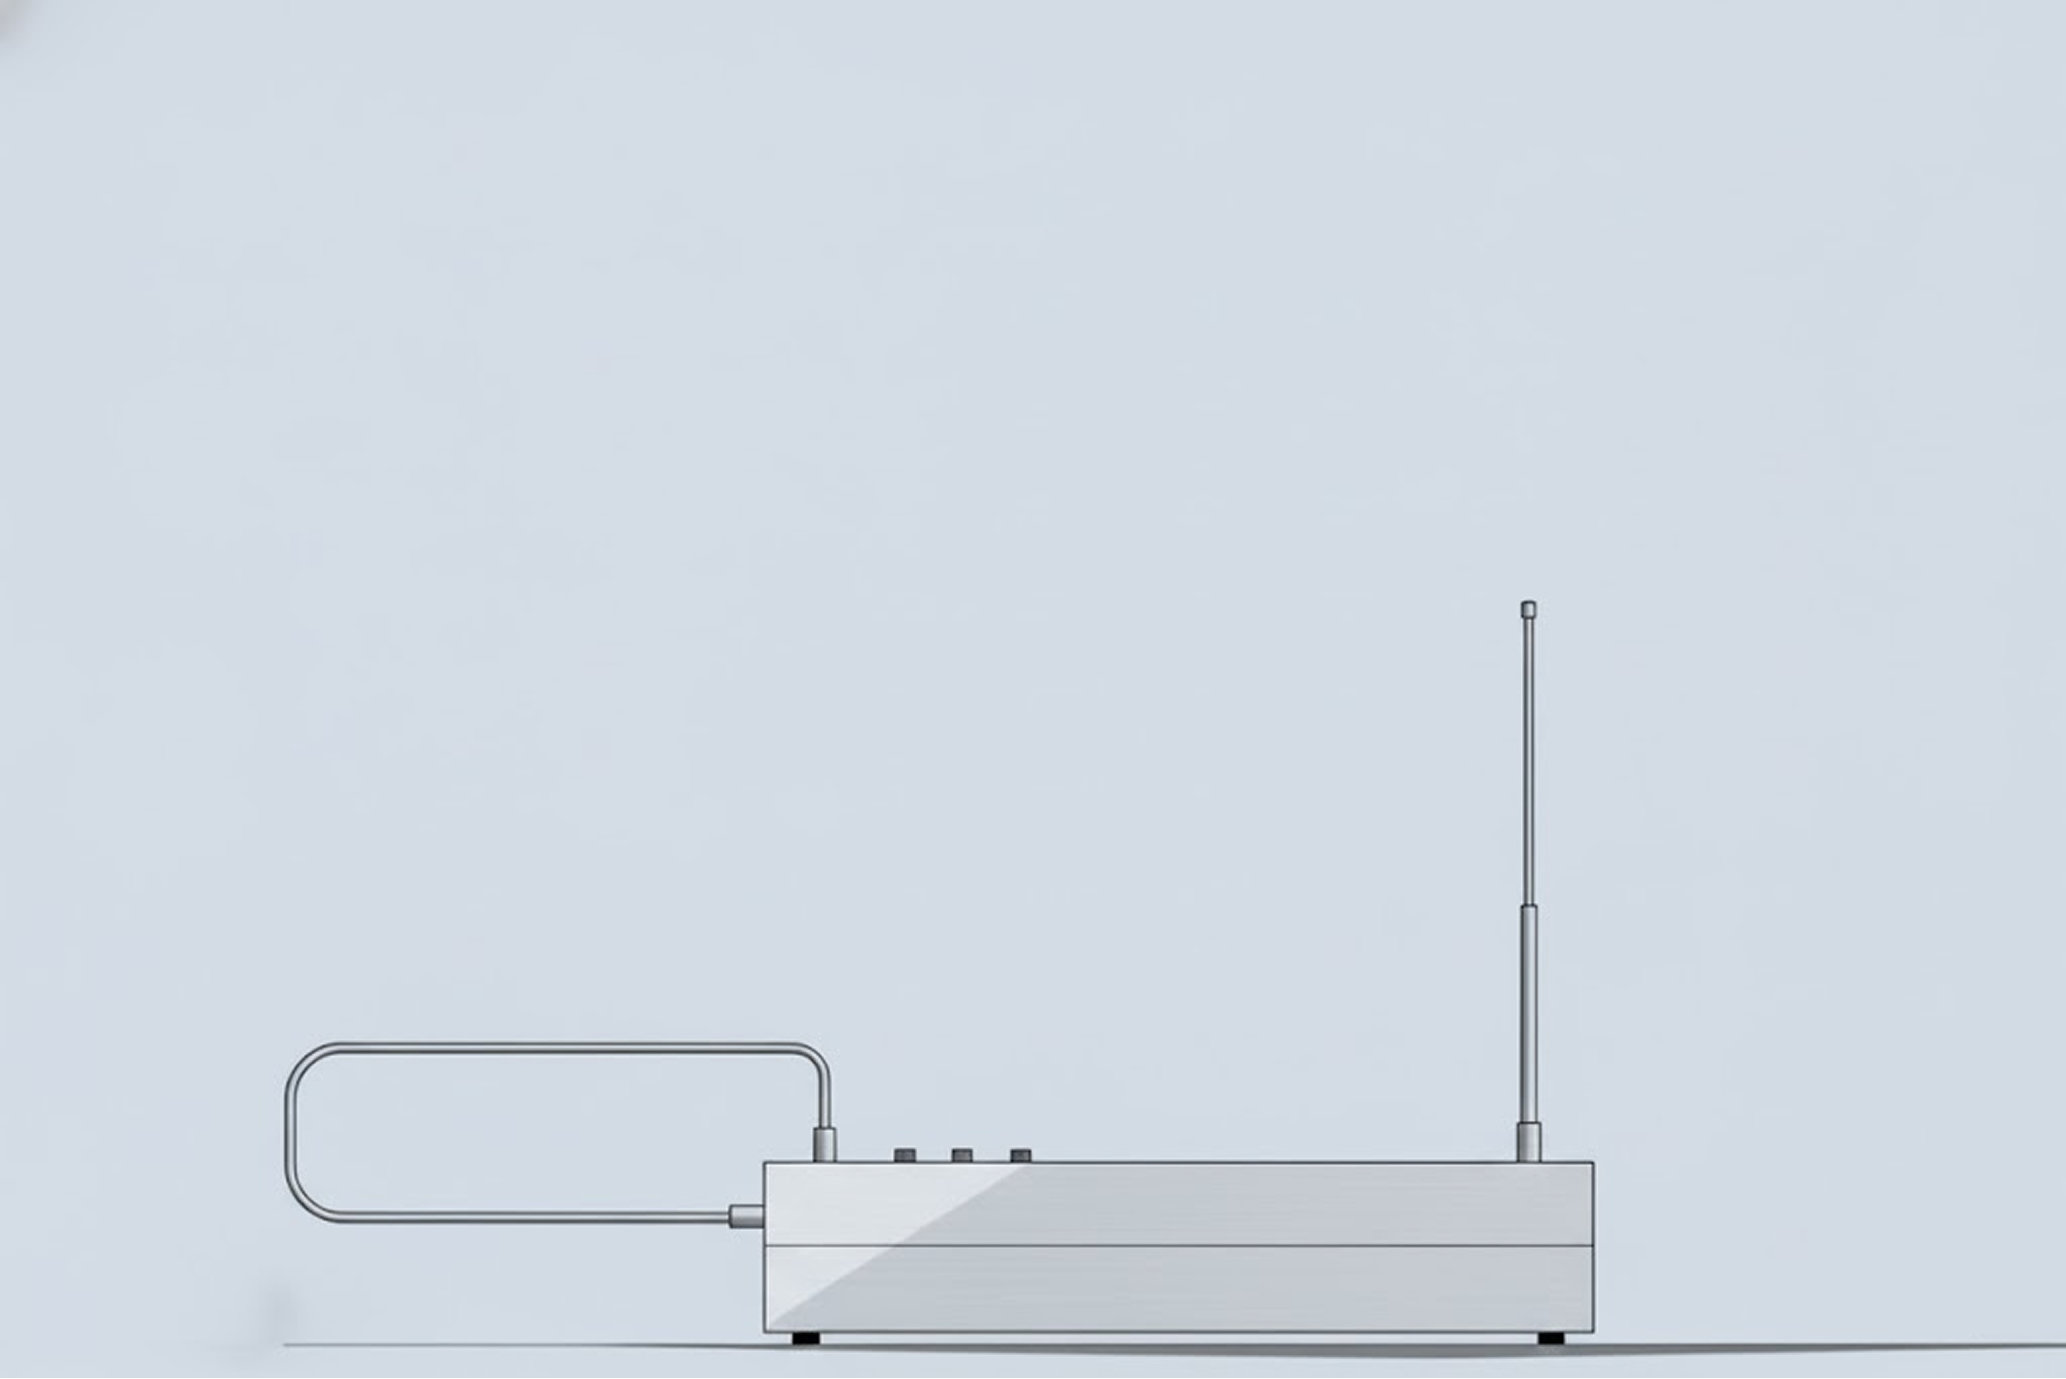
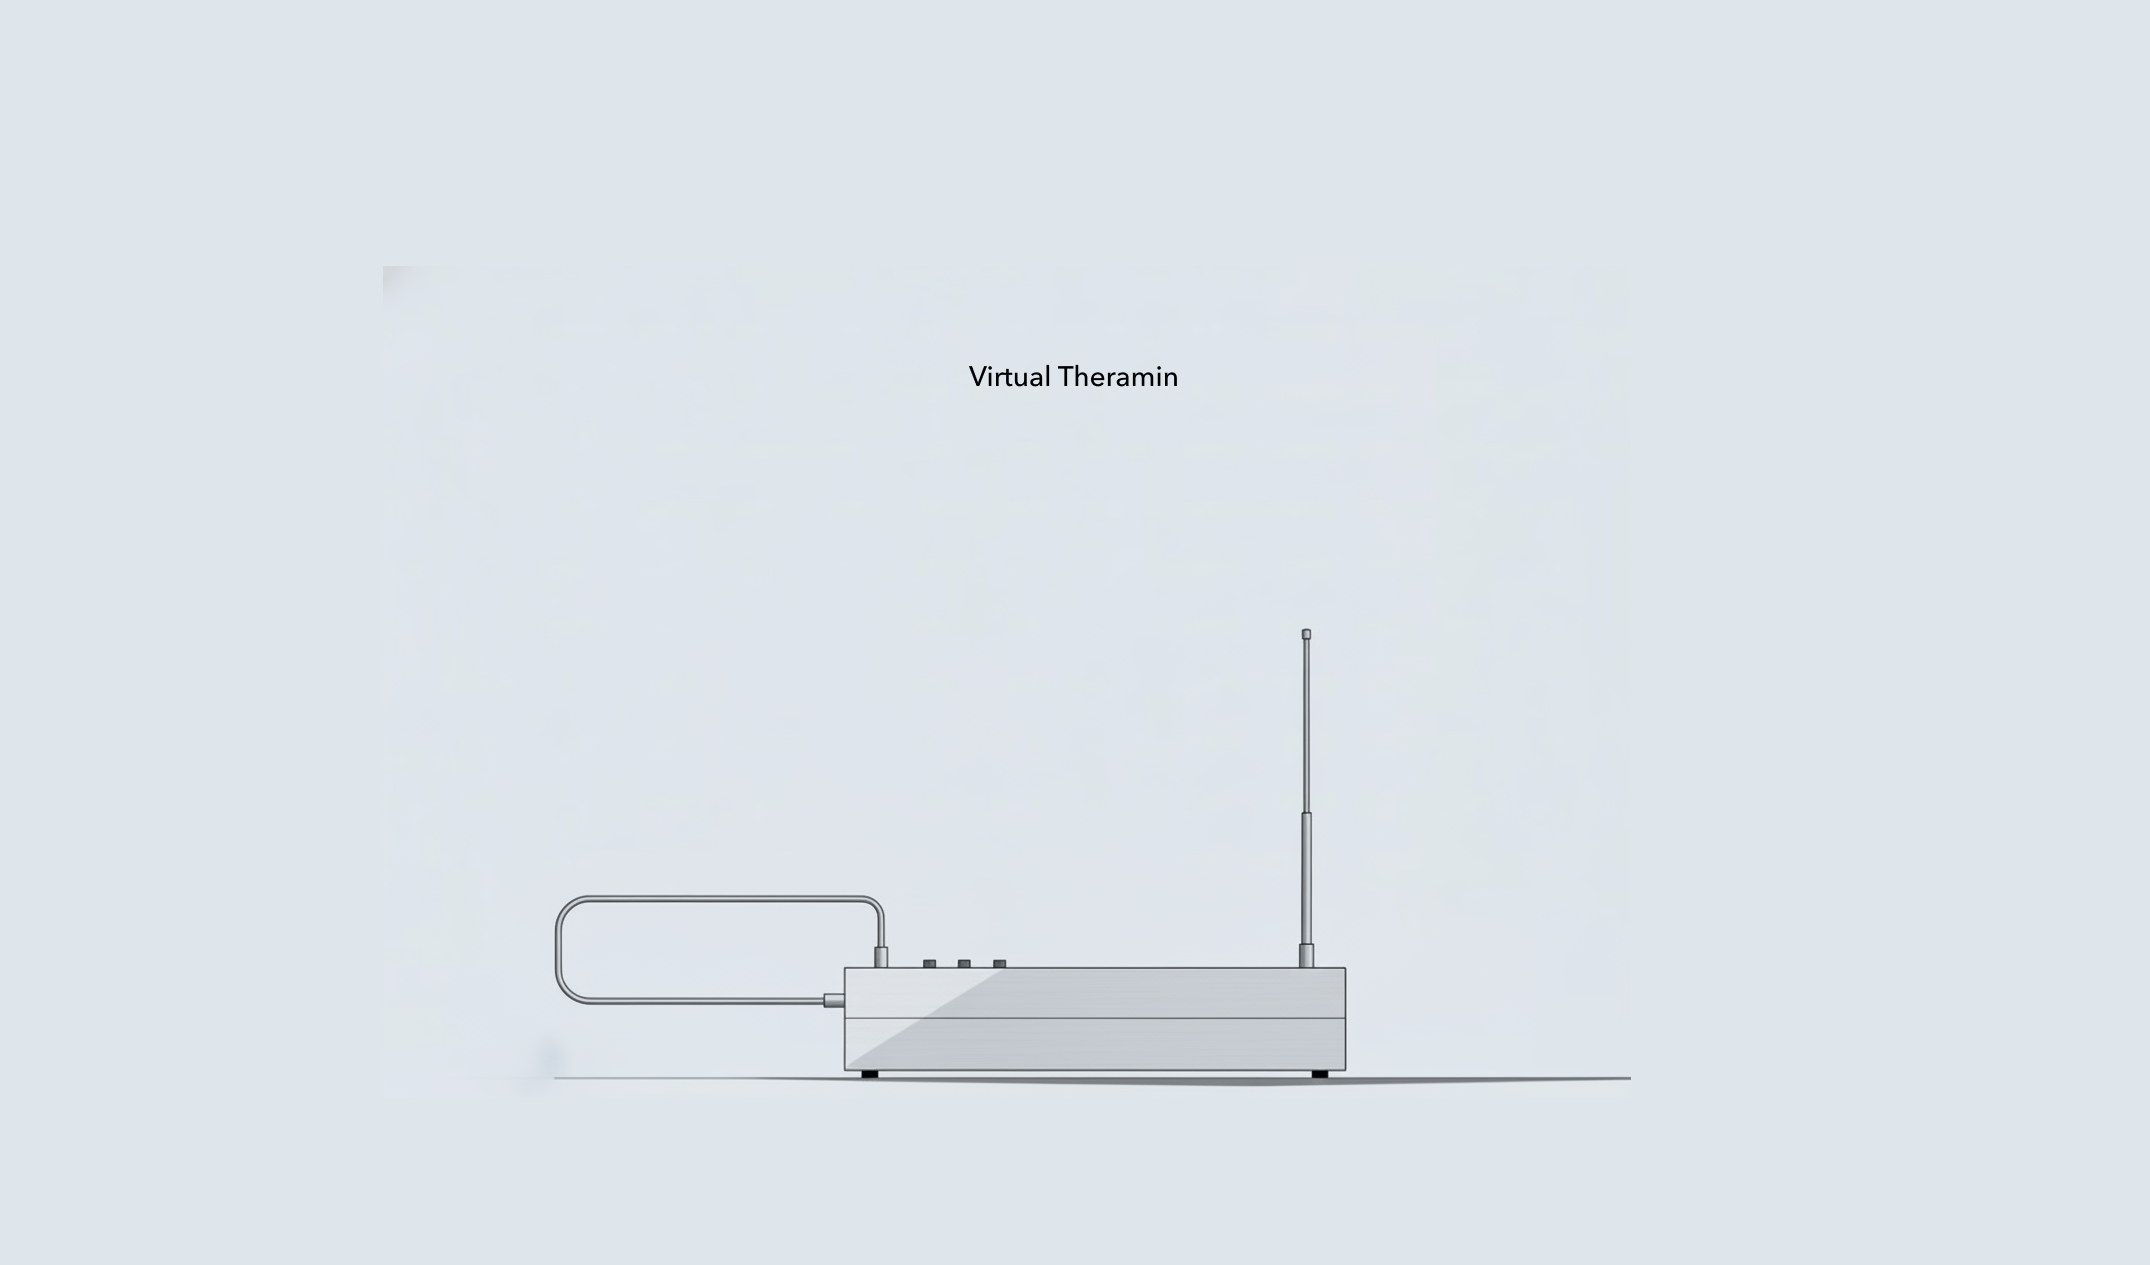
Theramin updates

diff --git a/theremin/index.html b/theremin/index.html
@@ -4,9 +4,6 @@
   <meta charset="UTF-8">
   <meta name="viewport" content="width=device-width, initial-scale=1.0">
   <title>Virtual Theremin</title>
-  <link rel="preconnect" href="https://fonts.googleapis.com">
-  <link rel="preconnect" href="https://fonts.gstatic.com" crossorigin>
-  <link href="https://fonts.googleapis.com/css2?family=Playfair+Display:ital,wght@0,400..900;1,400..900&display=swap" rel="stylesheet">
   <style>
     body {
       margin: 0;
@@ -18,135 +15,87 @@
       background-position: center;
       background-repeat: no-repeat;
       cursor: none;
-      font-family: 'Playfair Display', 'Times New Roman', 'Georgia', serif;
-      font-stretch: condensed;
+      font-family: 'Avenir', 'Helvetica Neue', 'Arial', sans-serif;
     }
-    
-    .overlay {
-      position: absolute;
-      top: 0;
-      left: 0;
-      width: 100%;
-      height: 100%;
-      background: rgba(0, 0, 0, 0.3);
-      pointer-events: none;
-    }
-    
-    .title {
-      position: absolute;
-      left: 10%;
-      top: 130px;
-      color: #ffffff;
-      font-size: 3em;
-      font-weight: normal;
-      letter-spacing: 2px;
-      font-family: 'Playfair Display', 'Times New Roman', 'Georgia', serif;
-      font-stretch: condensed;
-    }
-    
-
     
     .controls {
       position: absolute;
       top: 20px;
       right: 20px;
-      background: linear-gradient(145deg, #085E79, #064C61);
-      border: 2px solid #0A7997;
+      background: #f5f5f5;
+      border: 2px solid #555555;
       padding: 25px;
-      border-radius: 20px;
-      color: #ffffff;
+      border-radius: 6px;
+      color: #333333;
       pointer-events: auto;
-      box-shadow: 
-        inset 1px 1px 8px rgba(255, 255, 255, 0.2),
-        inset -1px -1px 8px rgba(0, 0, 0, 0.2),
-        3px 3px 15px rgba(0, 0, 0, 0.3);
-      font-family: 'Playfair Display', 'Times New Roman', 'Georgia', serif;
-      font-stretch: condensed;
-      font-weight: normal;
-      
+      font-family: 'Avenir', 'Helvetica Neue', 'Arial', sans-serif;
     }    .control-group {
       margin-bottom: 18px;
-      background: rgba(8, 94, 121, 0.3);
+      background: #ffffff;
       padding: 12px;
-      border-radius: 12px;
-      border: 1px solid #0A7997;
+      border-radius: 4px;
+      border: 1px solid #555555;
     }
     
     label {
       display: block;
       margin-bottom: 8px;
       font-size: 0.95em;
-      color: #ffffff;
-      font-weight: normal;
-      letter-spacing: 1px;
-      font-family: 'Playfair Display', 'Times New Roman', 'Georgia', serif;
-      font-stretch: condensed;
+      color: #333333;
+      font-family: 'Avenir', 'Helvetica Neue', 'Arial', sans-serif;
     }
     
     input[type="range"] {
       width: 100%;
       height: 8px;
-      background: linear-gradient(to right, #064C61, #0A7997);
-      border-radius: 5px;
+      background: #cccccc;
+      border-radius: 0;
       outline: none;
       -webkit-appearance: none;
       appearance: none;
+      border: 1px solid #555555;
     }
     
     input[type="range"]::-webkit-slider-thumb {
       -webkit-appearance: none;
       width: 20px;
       height: 20px;
-      background: radial-gradient(circle, #ecf0f1, #bdc3c7);
-      border: 2px solid #34495e;
-      border-radius: 50%;
+      background: #ffffff;
+      border: 2px solid #555555;
+      border-radius: 0;
       cursor: pointer;
-      box-shadow: 1px 1px 4px rgba(0, 0, 0, 0.3);
     }
     
     select {
       width: 100%;
       padding: 8px;
-      background: linear-gradient(145deg, #085E79, #064C61);
-      color: #ecf0f1;
-      border: 1px solid #0A7997;
-      border-radius: 8px;
-      font-weight: normal;
+      background: #ffffff;
+      color: #333333;
+      border: 1px solid #555555;
+      border-radius: 4px;
       font-size: 0.9em;
-      
+      font-family: 'Avenir', 'Helvetica Neue', 'Arial', sans-serif;
     }
     
     button {
-      background: linear-gradient(145deg, #444444, #333333);
-      border: 1px solid #222222;
-      color: #ffffff;
+      background: #ffffff;
+      border: 2px solid #555555;
+      color: #333333;
       padding: 12px 18px;
-      border-radius: 8px;
+      border-radius: 4px;
       cursor: pointer;
       font-size: 1em;
-      font-weight: normal;
-      letter-spacing: 1px;
       margin: 8px 5px;
-      box-shadow: 
-        2px 2px 5px rgba(0, 0, 0, 0.3),
-        inset 1px 1px 2px rgba(255, 255, 255, 0.2);
-
-      transition: all 0.2s ease;
+      font-family: 'Avenir', 'Helvetica Neue', 'Arial', sans-serif;
+      transition: background-color 0.2s ease;
     }
     
     button:hover {
-      background: linear-gradient(145deg, #555555, #444444);
-      transform: translateY(-2px);
-      box-shadow: 
-        3px 3px 8px rgba(0, 0, 0, 0.4),
-        inset 1px 1px 2px rgba(255, 255, 255, 0.3);
+      background: #e0e0e0;
     }
     
     button:active {
-      transform: translateY(0);
-      box-shadow: 
-        1px 1px 3px rgba(0, 0, 0, 0.3),
-        inset 2px 2px 3px rgba(0, 0, 0, 0.2);
+      background: #d0d0d0;
     }
     
 
@@ -155,17 +104,11 @@
       position: absolute;
       width: 20px;
       height: 20px;
-      background: radial-gradient(circle, #ff6b6b, #ff0000);
-      border-radius: 50%;
+      background: #ff6b6b;
+      border: 2px solid #555555;
+      border-radius: 0;
       pointer-events: none;
       z-index: 1000;
-      box-shadow: 0 0 20px #ff6b6b;
-      animation: pulse 1s infinite alternate;
-    }
-    
-    @keyframes pulse {
-      0% { transform: scale(1); }
-      100% { transform: scale(1.2); }
     }
     
 
@@ -178,10 +121,6 @@
   </style>
 </head>
 <body>
-  <div class="overlay">
-    <div class="title">Virtual theremin</div>
-  </div>
-  
   <div class="controls">
     <div class="control-group">
       <label>Waveform</label>
